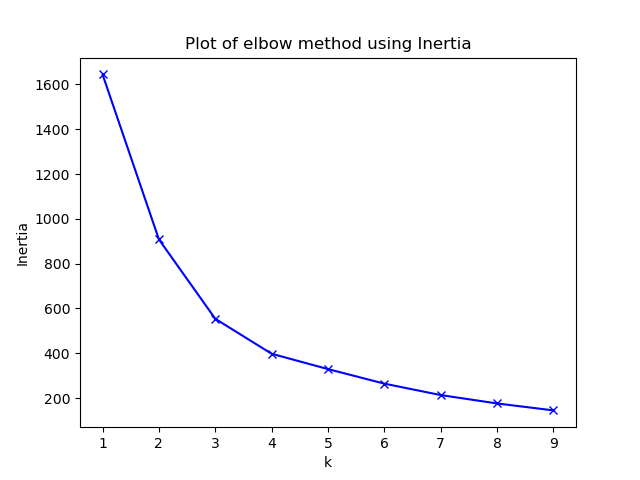
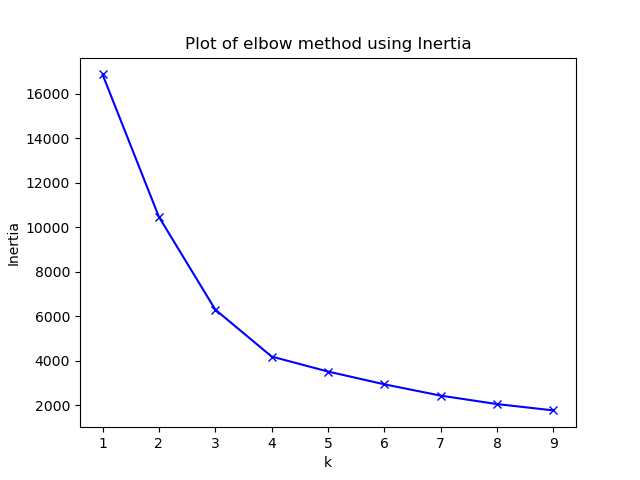
Update clustering code

diff --git a/ElbowMethod/main.py b/ElbowMethod/main.py
@@ -11,8 +11,8 @@ import math
 clustered_x_values = np.array([3, 1, 1, 2, 1, 6, 6, 6, 5, 6, 7, 8, 9, 8, 9, 9, 8])
 clustered_y_values = np.array([5, 4, 5, 6, 5, 8, 6, 7, 6, 7, 1, 2, 1, 2, 3, 2, 3])
 
-unclustered_x_values = np.array([math.floor(random.random() * 10) for _ in range(100)])
-unclustered_y_values = np.array([math.floor(random.random() * 10) for _ in range(100)])
+unclustered_x_values = np.array([random.random() * 10 for _ in range(1000)])
+unclustered_y_values = np.array([random.random() * 10 for _ in range(1000)])
 
 # List of K-Clusters
 k_range = range(1, 10)
@@ -28,11 +28,13 @@ def run_elbow_method_using_distortion(x_values, y_values):
     for k in k_range:
         k_means = KMeans(n_clusters=k)
         k_means.fit(points)
+
+        # Calculate distortion per k value
         centroids = k_means.cluster_centers_
-        # Naive approach, this gives all of the distances, then we need to find the min values
         distances_from_centroids = cdist(points, centroids, 'euclidean')
         smallest_distances_from_centroids = np.min(distances_from_centroids, axis=1)
         calculated_distortion = sum(smallest_distances_from_centroids) / points.shape[0]
+
         list_of_distortions.append(calculated_distortion)
 
     plot_elbow_method(k_range, list_of_distortions, 'Distortion', 'Plot of elbow method using Distortion')
@@ -44,7 +46,10 @@ def run_elbow_method_using_inertia(x_values, y_values):
     for k in k_range:
         k_means = KMeans(n_clusters=k)
         k_means.fit(points)
+
+        # Calculate inertia per k value
         calculated_inertia = k_means.inertia_  # Sum of the squared distances to the nearest cluster
+
         list_of_inertias.append(calculated_inertia)
 
     plot_elbow_method(k_range, list_of_inertias, 'Inertia', 'Plot of elbow method using Inertia')
